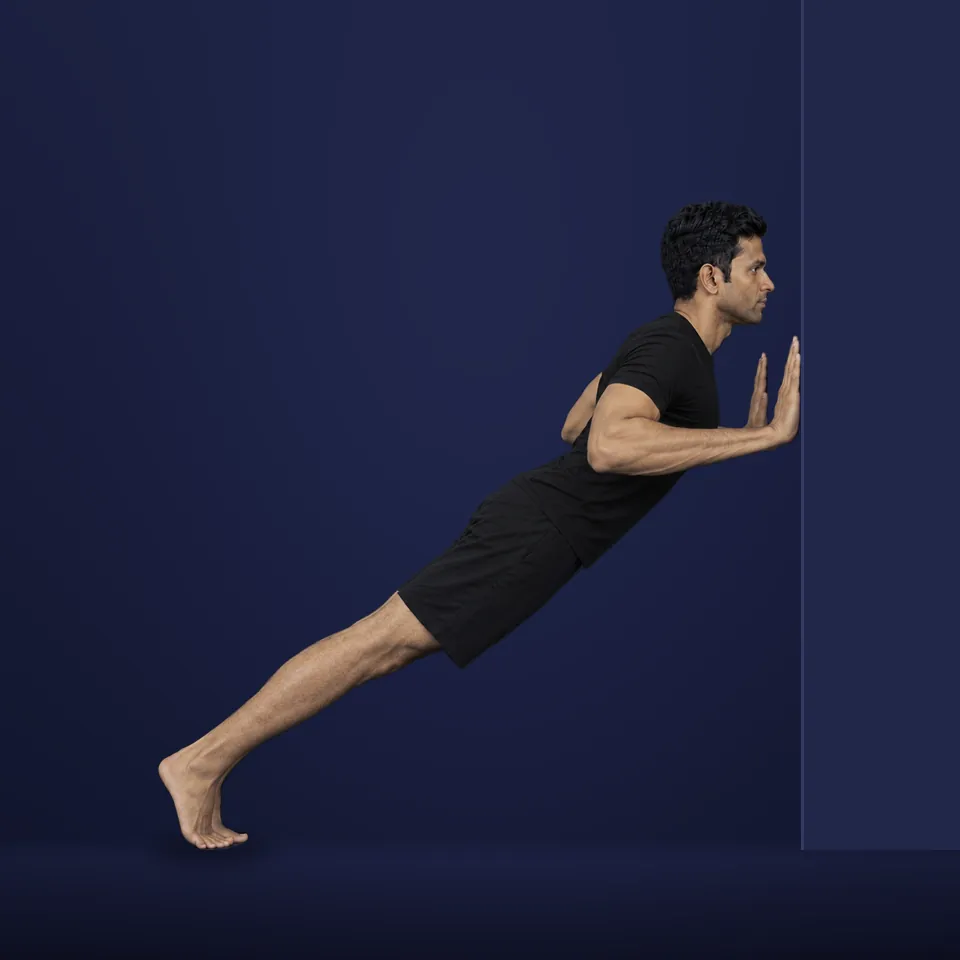
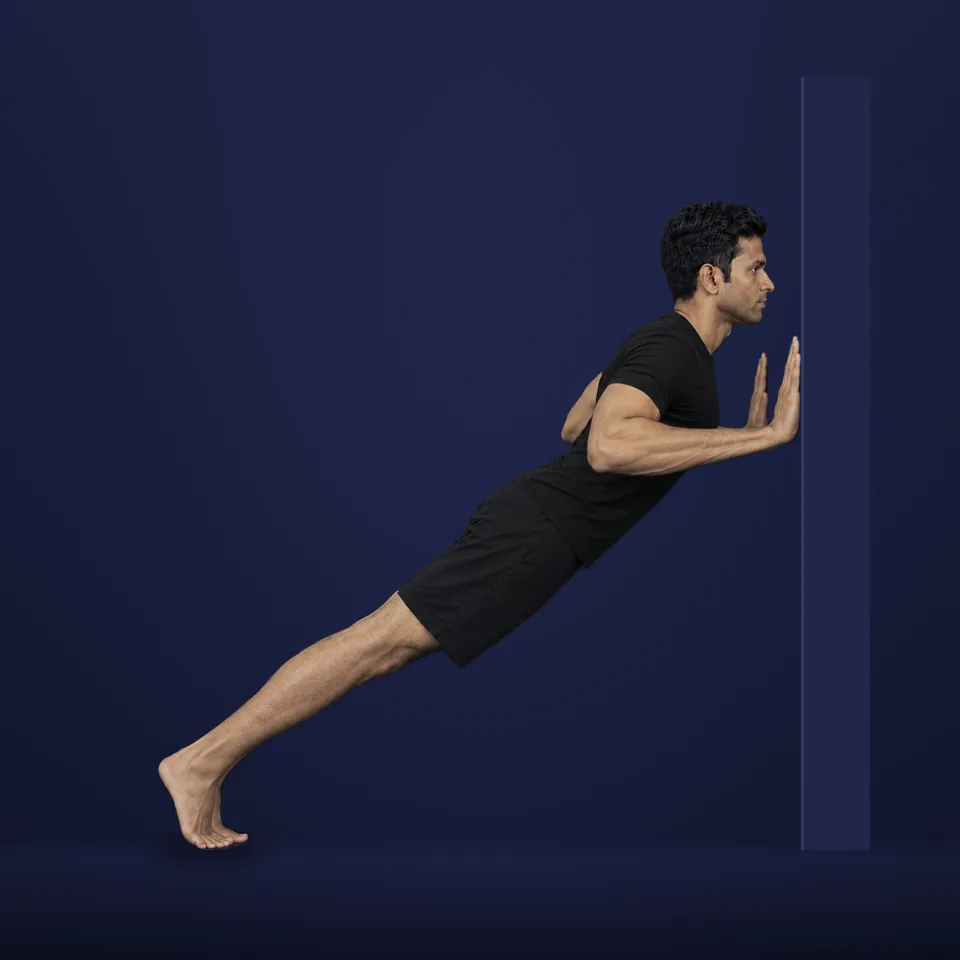
Never crop exercise photos: show them whole and frame thumbnails on the person
Large views (workout player, exercise sheet) show the whole square photo and fill any spare
width with the photo's own background, matched to its edge, instead of cropping heads and feet.
Thumbnails use a new square crop per exercise (<id>-t.webp) centred on the person, replacing
the 1.3x zoom that cut off hands and feet. Paused workouts hold the current frame. The wall in
wall exercises is now a free-standing panel so it never runs into the photo's edge.

Claude-Session: https://claude.ai/code/session_01T9tLQk57EDzJVC7tGAWfUb

Changed region(s): [[0.9062, 0.75, 1.0, 0.9062], [0.9688, 0.7188, 1.0, 0.75]]

diff --git a/src/screens/Session.jsx b/src/screens/Session.jsx
@@ -21,28 +21,28 @@ export function Amount({ step }) {
 }
 
 // The demonstration: a looping video when one exists for the move, otherwise the drawn figure.
-export function Demo({ ex, size, animate = true }) {
+export function Demo({ ex, size, animate = true, thumb = false }) {
   if (hasVideo(ex.id)) return <video src={`./video/${ex.id}.mp4`} autoPlay loop muted playsInline />
-  if (demoCount(ex.id)) return <Photos id={ex.id} frames={demoCount(ex.id)} animate={animate} />
+  if (demoCount(ex.id)) return <Photos key={ex.id} id={ex.id} frames={demoCount(ex.id)} animate={animate} thumb={thumb} />
   return <Figure pose={ex.pose} animate={animate} size={size} />
 }
 
 // Two photos, start and end of the move, cross-fading in the rhythm of a rep.
 // Steps through the frames (start, end, and the other side for alternating moves), crossfading.
 // A still picture shows the end position, which says the most about the move.
-function Photos({ id, frames, animate }) {
+function Photos({ id, frames, animate, thumb }) {
   const [i, setI] = useState(0)
   useEffect(() => {
-    setI(0)
     if (!animate || frames < 2) return
     const t = setInterval(() => setI((x) => (x + 1) % frames), 1100)
     return () => clearInterval(t)
   }, [animate, frames, id])
-  const shown = animate ? i : Math.min(1, frames - 1)
+  // Thumbnails are a square crop of the end position, framed on the person.
+  if (thumb) return <div className="photos thumb"><img src={`./demo/${id}-t.webp`} alt="" draggable="false" /></div>
   return (
     <div className="photos">
       {Array.from({ length: frames }, (_, n) => (
-        <img key={n} src={`./demo/${id}-${n}.webp`} alt="" draggable="false" loading={n === 0 ? 'eager' : 'lazy'} style={{ opacity: n === shown || n === 0 ? 1 : 0, zIndex: n === shown ? 1 : 0 }} />
+        <img key={n} src={`./demo/${id}-${n}.webp`} alt="" draggable="false" loading={n === 0 ? 'eager' : 'lazy'} style={{ opacity: n === i || n === 0 ? 1 : 0, zIndex: n === i ? 1 : 0 }} />
       ))}
     </div>
   )
@@ -194,7 +194,7 @@ export default function Session({ tpl, index, split: split0, onBack, onFinish })
           <div className="list">
             {(sec === 'drill' ? drillRows(steps) : steps).map((s, k) => (
               <button className="li" key={k} onClick={() => setOpen(EX[s.ex])}>
-                <div className="figbox" style={{ width: 54, height: 54, position: 'relative' }}><Demo ex={EX[s.ex]} size={54} animate={false} /></div>
+                <div className="figbox" style={{ width: 54, height: 54, position: 'relative' }}><Demo ex={EX[s.ex]} size={54} animate={false} thumb /></div>
                 <div className="grow">
                   <b>{L(EX[s.ex].name)}</b>
                   <div className="muted small">{s.range ? `${s.range} ${t('times')}` : <Amount step={s} />}{s.type === 'emom' ? ` / ${t('min')}` : ''}</div>

diff --git a/src/styles.css b/src/styles.css
@@ -200,8 +200,11 @@ label.field { display: flex; flex-direction: column; gap: 6px; font-weight: 650;
 .vid { width: 100%; flex: 0 1 38%; min-height: 150px; background: #10142a; border: 1px solid var(--line); border-radius: 18px; display: grid; place-items: center; overflow: hidden; position: relative; }
 .vid video { width: 100%; height: 100%; object-fit: cover; position: absolute; inset: 0; }
 .vid .tagline { position: absolute; left: 10px; top: 10px; }
-.photos { position: absolute; inset: 0; }
-.photos img { position: absolute; inset: 0; width: 100%; height: 100%; object-fit: cover; transition: opacity 0.45s ease-in-out; }
+/* Photos are square. The whole photo is always shown (never cropped); any extra width is filled
+   with the photo's own background, matched to its edge, so the padding cannot be seen. */
+.photos { position: absolute; inset: 0; background: linear-gradient(to bottom, rgb(27,31,66) 0%, rgb(26,30,61) 20%, rgb(24,28,56) 40%, rgb(22,26,52) 60%, rgb(18,23,49) 80%, rgb(19,21,45) 87.6%, rgb(22,26,54) 89.7%, rgb(19,24,50) 91.8%, rgb(15,19,38) 97%, rgb(15,14,30) 100%); }
+.photos img { position: absolute; inset: 0; width: 100%; height: 100%; object-fit: contain; transition: opacity 0.45s ease-in-out; }
+.photos.thumb img { object-fit: cover; }
 .figbox { position: relative; }
 .stage { flex: 1; min-height: 0; display: flex; flex-direction: column; align-items: center; justify-content: center; gap: 6px; text-align: center; animation: rise 0.3s backwards; }
 .repnum { font-size: 5rem; font-weight: 900; line-height: 0.95; letter-spacing: -0.04em; color: var(--brand); font-variant-numeric: tabular-nums; }
@@ -304,6 +307,4 @@ label.field { display: flex; flex-direction: column; gap: 6px; font-weight: 650;
 .rest-card { border-color: var(--line); }
 .seg.mini { flex: none; }
 .seg.mini button { padding: 6px 8px; font-size: 0.72rem; flex: none; }
-/* Small thumbnails: zoom in on the person, who stands on the floor line near the bottom. */
 .figbox .photos { overflow: hidden; border-radius: inherit; }
-.figbox .photos img { transform: scale(1.3); transform-origin: 50% 72%; }

diff --git a/src/screens/Main.jsx b/src/screens/Main.jsx
@@ -42,7 +42,7 @@ function planWeek(p, j, idx, total, today) {
 function MoveStrip({ moves }) {
   return (
     <div className="move-strip">
-      {moves.slice(0, 6).map((m) => <div className="figbox" key={m.ex}><Demo ex={EX[m.ex]} size={56} animate={false} /></div>)}
+      {moves.slice(0, 6).map((m) => <div className="figbox" key={m.ex}><Demo ex={EX[m.ex]} size={56} animate={false} thumb /></div>)}
     </div>
   )
 }
@@ -382,7 +382,7 @@ export function Explore({ nav }) {
       <div className="card"><div className="list">
         {list.map((e) => (
           <button className="li" key={e.id} onClick={() => setOpen(e)}>
-            <div className="figbox" style={{ width: 52, height: 52 }}><Demo ex={e} size={52} animate={false} /></div>
+            <div className="figbox" style={{ width: 52, height: 52 }}><Demo ex={e} size={52} animate={false} thumb /></div>
             <span className="grow"><b>{L(e.name)}</b><span className="muted small" style={{ display: 'block' }}>{t('area_' + e.area)}</span></span>
             <ChevronRight size={18} className="muted" />
           </button>
@@ -439,7 +439,7 @@ export function Calibrate({ hid, nav }) {
           <div className="list">
             {moves.map((m) => (
               <div className="li" key={m.ex} style={{ gap: 10 }}>
-                <div className="figbox" style={{ width: 44, height: 44, flex: 'none' }}><Demo ex={EX[m.ex]} size={44} animate={false} /></div>
+                <div className="figbox" style={{ width: 44, height: 44, flex: 'none' }}><Demo ex={EX[m.ex]} size={44} animate={false} thumb /></div>
                 <b className="grow small" style={{ minWidth: 0 }}>{L(EX[m.ex].name)}</b>
                 <div className="seg mini">
                   {[['', 'move_ok'], ['hard', 'move_hard'], ['pain', 'move_pain']].map(([how, key]) => (

diff --git a/scripts/process_demos.py b/scripts/process_demos.py
@@ -11,7 +11,7 @@ Needs:  pip install onnxruntime mediapipe pillow numpy   (mediapipe needs libegl
 Models (downloaded into models_dir on first run, about 380 MB):
   u2net_human_seg.onnx, isnet-general-use.onnx from github.com/danielgatis/rembg releases,
   pose_landmarker_heavy.task from MediaPipe (to measure body size from limb lengths)
-Writes: public/demo/<id>-<n>.webp and src/data/demos.json ({ id: frame count })
+Writes: public/demo/<id>-<n>.webp (frames), <id>-t.webp (square thumbnail) and src/data/demos.json
 """
 import json, os, sys, urllib.request
 import numpy as np
@@ -169,7 +169,7 @@ def main():
         w = max((boxes[k][2] - boxes[k][0]) * rel[k] for k in frames)
         scale = min(1, FILL[0] * FLOOR / h, FILL[1] * S / w)
 
-        rendered = {}
+        rendered, boxes_out = {}, {}
         for k in frames:
             im, a = cut[k]
             x0, y0, x1, y1 = boxes[k]
@@ -183,12 +183,15 @@ def main():
                 d = ImageDraw.Draw(canvas)
                 ar = np.asarray(alpha) > 128
                 cols = np.where(ar.any(0))[0]
+                # A free-standing wall panel, so it never runs into the photo's edge (the app may
+                # show the photo inside a wider box, padded with the same background).
+                ww = round(0.07 * S)
                 if WALL[eid] == 'right':
                     wx = left + cols.max() + 2
-                    d.rectangle((wx, 0, S, FLOOR), fill=(33, 38, 72)); d.line((wx, 0, wx, FLOOR), fill=(52, 58, 100), width=3)
+                    d.rectangle((wx, round(0.08 * S), wx + ww, FLOOR), fill=(33, 38, 72)); d.line((wx, round(0.08 * S), wx, FLOOR), fill=(52, 58, 100), width=3)
                 else:
                     wx = left + cols.min() - 2
-                    d.rectangle((0, 0, wx, FLOOR), fill=(33, 38, 72)); d.line((wx, 0, wx, FLOOR), fill=(52, 58, 100), width=3)
+                    d.rectangle((wx - ww, round(0.08 * S), wx, FLOOR), fill=(33, 38, 72)); d.line((wx, round(0.08 * S), wx, FLOOR), fill=(52, 58, 100), width=3)
             # Soft shadow where the body meets the floor.
             ar = np.asarray(alpha) > 128
             low = np.where(ar[max(0, ph - max(6, ph // 12)):].any(0))[0]
@@ -202,17 +205,31 @@ def main():
                 canvas = Image.composite(Image.new('RGB', (S, S), (4, 5, 12)), canvas, sh)
             canvas.paste(person, (left, top), alpha)
             rendered[k] = canvas
+            boxes_out[k] = (left, top, left + pw, top + ph)
 
         for n, (src, fr, flip) in enumerate(seq):
             out = rendered[(src, fr)]
             if flip: out = ImageOps.mirror(out)
             out.save(os.path.join(OUT, f'{eid}-{n}.webp'), 'WEBP', quality=80, method=6)
+        # Thumbnail: the still frame (the end position), cropped square around the person.
+        src, fr, flip = seq[min(1, len(seq) - 1)]
+        x0, y0, x1, y1 = boxes_out[(src, fr)]
+        if flip: x0, x1 = S - x1, S - x0
+        y1 = max(y1, FLOOR + 10)
+        side = min(S, max(x1 - x0, y1 - y0) * 1.16 + 24)
+        cx, cy = (x0 + x1) / 2, (y0 + y1) / 2
+        bx = min(max(cx - side / 2, 0), S - side)
+        by = min(max(cy - side / 2, 0), S - side)
+        thumb = rendered[(src, fr)]
+        if flip: thumb = ImageOps.mirror(thumb)
+        thumb.crop((round(bx), round(by), round(bx + side), round(by + side))).resize((256, 256), Image.LANCZOS) \
+            .save(os.path.join(OUT, f'{eid}-t.webp'), 'WEBP', quality=82, method=6)
         manifest[eid] = len(seq)
         print(eid, len(seq), 'frames')
 
     for f in os.listdir(OUT):
         stem = os.path.splitext(f)[0]
-        if f.endswith('.webp') and (stem.rsplit('-', 1)[0] not in manifest or not stem.rsplit('-', 1)[1].isdigit()):
+        if f.endswith('.webp') and (stem.rsplit('-', 1)[0] not in manifest or not (stem.rsplit('-', 1)[1].isdigit() or stem.rsplit('-', 1)[1] == 't')):
             os.remove(os.path.join(OUT, f))
     old = os.path.join(OUT, 'manifest.json')
     if os.path.exists(old): os.remove(old)
